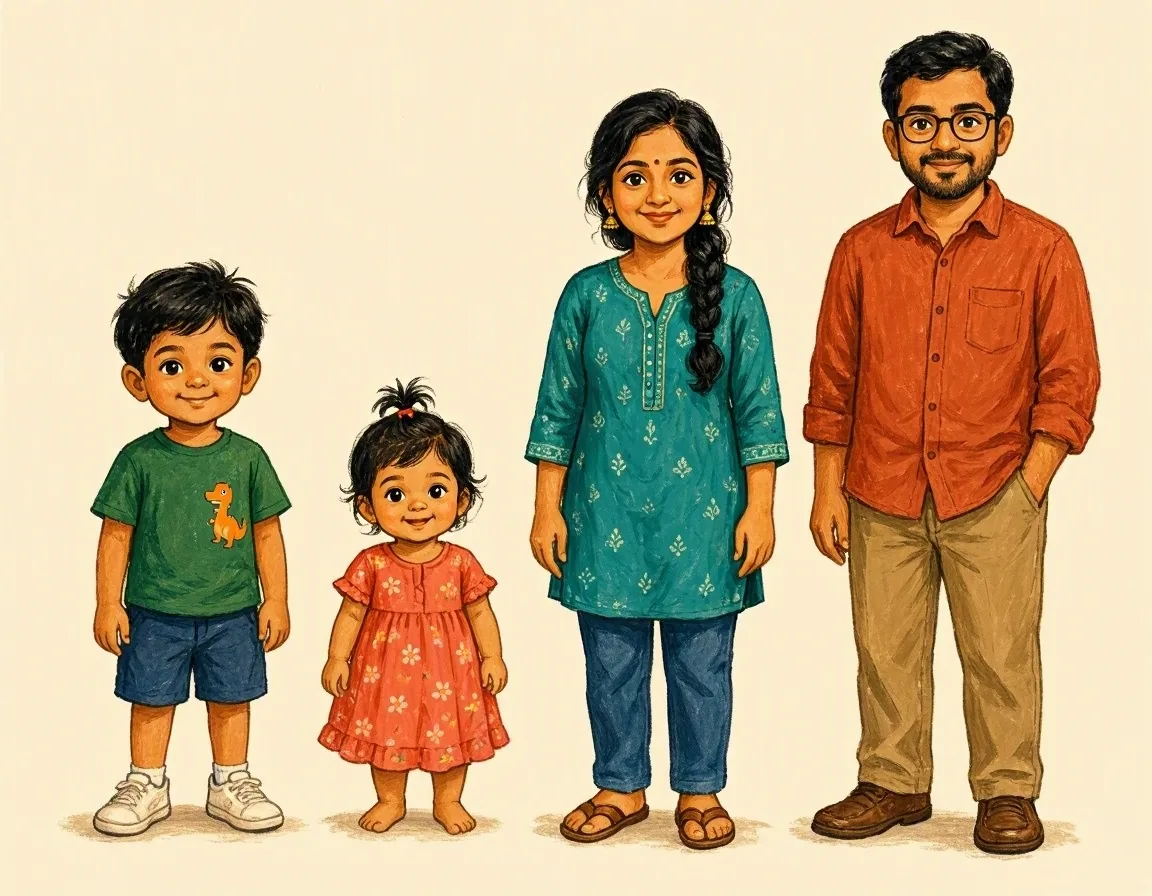
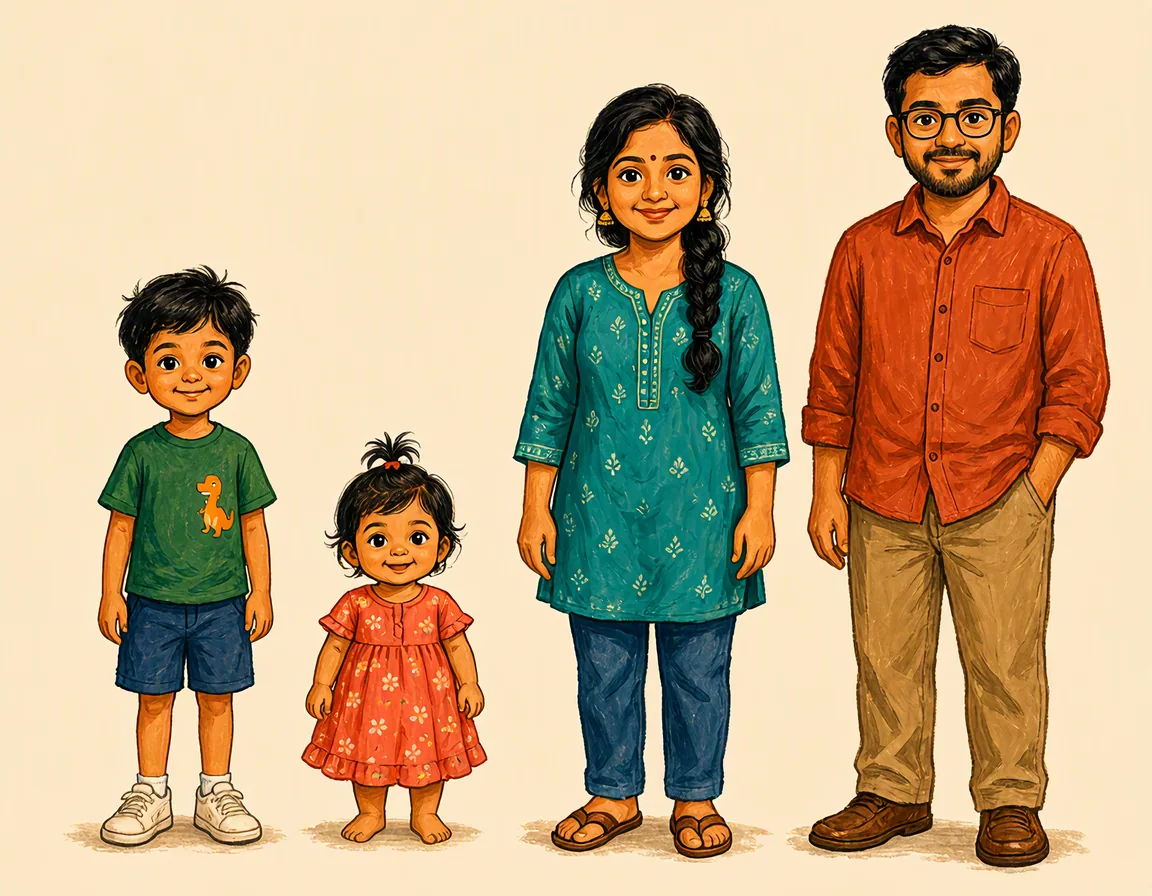
Recompose two Telugu & Tamil pictures the image filter refused
The bumped-knee moment now shows the comfort after (a hug and a dinosaur
plaster) rather than the injury, and the goat rhyme has Arjun crawling as a
goat rather than trotting on all fours.

Changed region(s): [[0.0312, 0.0312, 0.9688, 1.0]]

diff --git a/src/languages/rhymes/telugu.ts b/src/languages/rhymes/telugu.ts
@@ -162,7 +162,7 @@ export const RHYMES: readonly Rhyme[] = [
     origin:
       'Traditional Telugu folk and school rhyme from oral tradition, no known author; Telugu Wikipedia lists it among children\'s songs. Public domain. Do not use the song "Bujji meka" from the 2024 film Pottel: it is copyrighted, and its lyric was not compared with this folk text.',
     picture:
-      'Arjun, on all fours as the goat, trots between the raised vegetable beds in the backyard and lifts his head to answer, while Nanna, holding Mia by the hand on the lawn, leans down to ask where the little goat went.',
+      'In the backyard, Arjun crawls on hands and knees between the raised vegetable beds pretending to be a little goat, smiling up at Nanna, who stands on the lawn holding Mia’s hand and laughing as he sings the question to the goat.',
     cast: ['Arjun', 'Nanna', 'Mia'],
     note: {
       what: 'A Telugu sung conversation between children and a little goat. They ask where it went and what it saw; the goat says it went to graze in the king\'s garden and saw the queen\'s flowers.',

diff --git a/src/languages/moments/home.ts b/src/languages/moments/home.ts
@@ -577,7 +577,7 @@ export const MOMENTS: readonly Moment[] = [
     // it under a part of the day it does not belong to.
     when: 'play',
     picture:
-      'Nanna, crouching on the patio, gently blows on Arjun\'s scraped knee while Arjun, sitting on the patio step with a teary face, points at the knee with one finger; his scooter lies on its side on the lawn behind them. Lemon tree, wooden fence, potted curry-leaf plant, afternoon light. No words or letters anywhere in the picture.',
+      'On the sunny backyard patio beside a small scooter, Nanna kneels and gives Arjun a warm hug, one hand patting his back, while Arjun, already smiling again, holds out his leg to show a small dinosaur sticking plaster on his knee.',
     cast: ['Nanna', 'Arjun'],
     grownUp: [
       {
